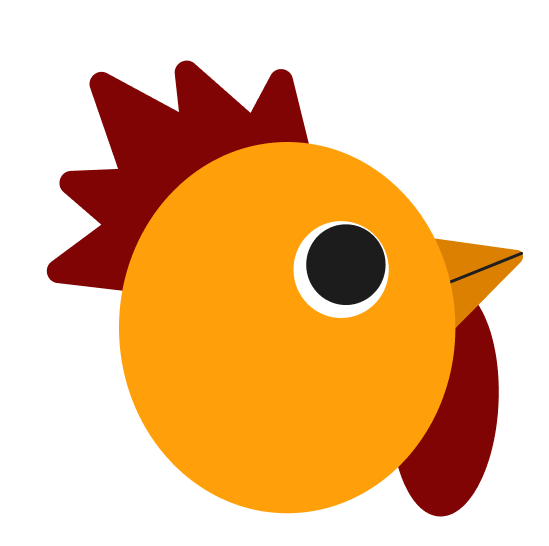
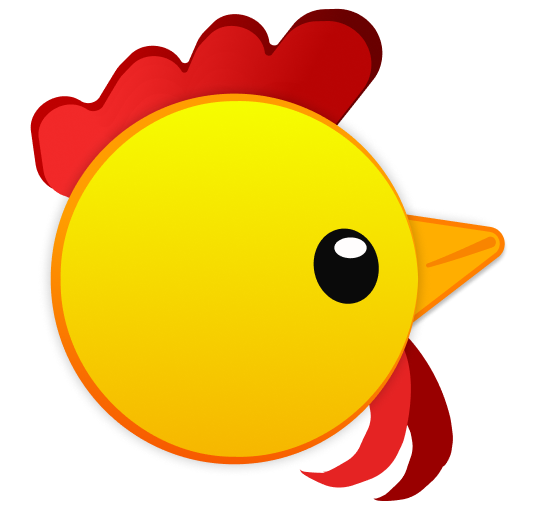
style:i

diff --git a/src/app/layout.tsx b/src/app/layout.tsx
@@ -18,6 +18,10 @@ const geistMono = Geist_Mono({
 export const metadata: Metadata = {
   title: "Vuiga.com - Đấu Trí Trại Gà Vui Vẻ",
   description: "Hành trình từ Quả Trứng 🥚 đến Phượng Hoàng Lửa 🔥 - Hệ thống Tiến trình & Xếp hạng Boardgame Kê Vương.",
+  icons: {
+    icon: "/logo.png",
+    apple: "/logo.png",
+  },
 };
 
 export default function RootLayout({